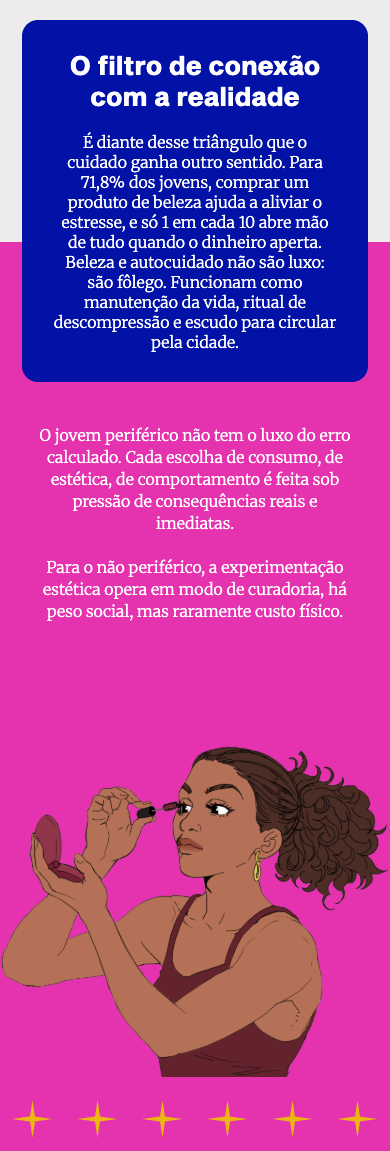
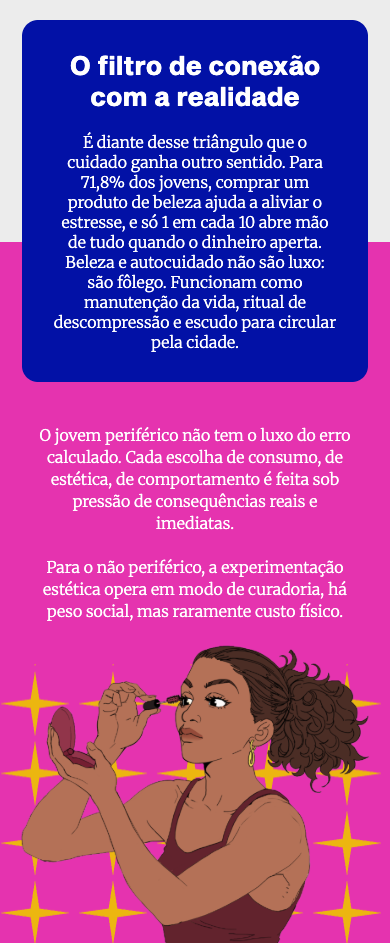
Match mobile portrait scale and star background reference

diff --git a/index.html b/index.html
@@ -132,7 +132,7 @@
 <p class="">41% dos jovens encontram na fé a sua principal força emocional. Aqui a fé é prática: para 40%, ela serve para &quot;dar certeza de que isso também vai passar&quot;.</p></article></div></div></div></section>
 <section class="section care">
 <div class="wrap care-lead"><h2>O filtro de conexão com a realidade</h2><p>É diante desse triângulo que o cuidado ganha outro sentido. Para 71,8% dos jovens, comprar um produto de beleza ajuda a aliviar o estresse, e só 1 em cada 10 abre mão de tudo quando o dinheiro aperta. Beleza e autocuidado não são luxo: são fôlego. Funcionam como manutenção da vida, ritual de descompressão e escudo para circular pela cidade.</p></div>
-<div class="care-stage"><p class="care-note care-note--periphery">O jovem periférico não tem o luxo do erro calculado. Cada escolha de consumo, de estética, de comportamento é feita sob pressão de consequências reais e imediatas.</p><img class="art care-art" src="assets/care-revised.png" alt="Jovem fazendo maquiagem em frente ao espelho" loading="lazy" decoding="async" width="831" height="853"><p class="care-note care-note--curation">Para o não periférico, a experimentação estética opera em modo de curadoria, há peso social, mas raramente custo físico.</p></div>
+<div class="care-stage"><p class="care-note care-note--periphery">O jovem periférico não tem o luxo do erro calculado. Cada escolha de consumo, de estética, de comportamento é feita sob pressão de consequências reais e imediatas.</p><div class="care-portrait"><img class="art care-art" src="assets/care-revised.png" alt="Jovem fazendo maquiagem em frente ao espelho" loading="lazy" decoding="async" width="831" height="853"></div><p class="care-note care-note--curation">Para o não periférico, a experimentação estética opera em modo de curadoria, há peso social, mas raramente custo físico.</p></div>
 </section>
 <section class="section bridge">
 <div class="bridge-backdrop" aria-hidden="true"><img src="assets/originals/(Vers%C3%A3o%20Natura)%20JUVENTUDE%20BRASILEIRA%20E%20O%20HIBRIDISMO%20TROPICAL%20(2)%201.png" alt="" loading="lazy" width="2880" height="2180"></div>

diff --git a/design.css b/design.css
@@ -1077,3 +1077,30 @@ tbody th { color: white; background: var(--pink); border-radius: 12px; font-weig
     pointer-events: none;
   }
 }
+
+/* Mobile reference: stars behind the cutout, portrait grounded at the edge. */
+.care-portrait { display: contents; }
+@media (max-width: 720px) {
+  .care-portrait {
+    display: block;
+    position: relative;
+    isolation: isolate;
+    order: 1;
+    width: 100%;
+    overflow: clip;
+  }
+  .care-portrait::before {
+    content: '';
+    position: absolute;
+    inset: 20px 0 0;
+    z-index: -1;
+    background: url('assets/star.svg') center bottom / 86px 65px round;
+    pointer-events: none;
+  }
+  .care-portrait .care-art {
+    width: min(390px, 90%);
+    margin: max(-62px, -16vw) auto 0;
+    bottom: auto;
+  }
+  .care-stage::after { content: none; }
+}
